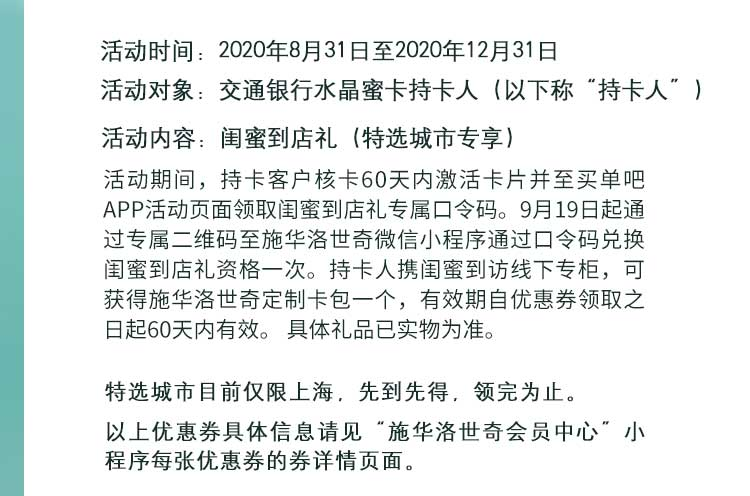
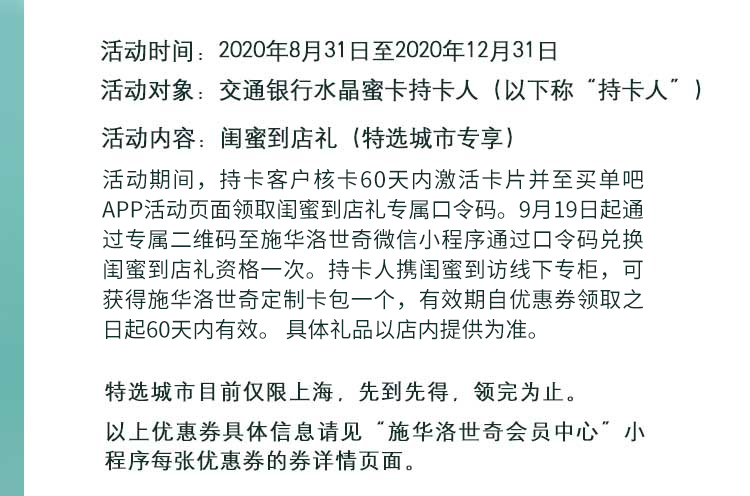
水晶蜜卡专享 活动提交

Changed region(s): [[0.1227, 0.3327, 0.8587, 0.6956]]

diff --git a/水晶蜜卡-到店礼&TC-WAP/check/xize.html b/水晶蜜卡-到店礼&TC-WAP/check/xize.html
@@ -49,7 +49,7 @@
                 <h3>活动内容</h3>
                 <p>闺蜜到店礼（特选城市专享）</p>
                 <p>活动期间，持卡客户核卡60天内激活卡片并至买单吧APP活动页面领取闺蜜到店礼专属口令码。9月19日起通过专属二维码至施华洛世奇微信小程序通过口令码兑换闺蜜到店礼资格一次。持卡人携闺蜜到访线下专柜，可获得施华洛世奇定制卡包一个，有效期自优惠券领取之日起60天内有效。
-                    具体礼品已实物为准。</p>
+                    具体礼品以店内提供为准。</p>
                 <p>* 特选城市目前仅限上海，先到先得，领完为止。</p>
                 <p>* 以上优惠券具体信息请见“施华洛世奇会员中心”小程序每张优惠券的券详情页面。</p>
                 <div class="split-line"></div>

diff --git a/水晶蜜卡-到店礼&TC-WAP/upload/xize.html b/水晶蜜卡-到店礼&TC-WAP/upload/xize.html
@@ -51,7 +51,7 @@
 				<h3>活动内容</h3>
 				<p>闺蜜到店礼（特选城市专享）</p>
 				<p>活动期间，持卡客户核卡60天内激活卡片并至买单吧APP活动页面领取闺蜜到店礼专属口令码。9月19日起通过专属二维码至施华洛世奇微信小程序通过口令码兑换闺蜜到店礼资格一次。持卡人携闺蜜到访线下专柜，可获得施华洛世奇定制卡包一个，有效期自优惠券领取之日起60天内有效。
-					具体礼品已实物为准。</p>
+					具体礼品以店内提供为准。</p>
 				<p>* 特选城市目前仅限上海，先到先得，领完为止。</p>
 				<p>* 以上优惠券具体信息请见“施华洛世奇会员中心”小程序每张优惠券的券详情页面。</p>
 				<div class="split-line"></div>

diff --git a/水晶蜜卡-到店礼&TC-WAP/upload/index.html b/水晶蜜卡-到店礼&TC-WAP/upload/index.html
@@ -66,6 +66,8 @@
 
 
       <div class="relative-div">
+        <a title="立即领取" href="https://creditcardapp.bankcomm.com/acsweb/actDetail/detail?actId=20200824203633"
+          class="lingqu"></a>
         <a href="xize.html" title="细则" class="xize"></a>
         <img src="images/index/index_04.jpg">
       </div>

diff --git a/水晶蜜卡-折扣券&TC-WAP/check/index.html b/水晶蜜卡-折扣券&TC-WAP/check/index.html
@@ -59,6 +59,8 @@
 
 
       <div class="relative-div">
+        <a title="立即领取" href="https://creditcardapp.bankcomm.com/acsweb/actDetail/detail?actId=20200824203633"
+          class="lingqu"></a>
         <a href="xize.html" title="细则" class="xize"></a>
         <img src="images/index/index_04.jpg">
       </div>

diff --git a/水晶蜜卡-折扣券&TC-WAP/upload/index.html b/水晶蜜卡-折扣券&TC-WAP/upload/index.html
@@ -66,6 +66,8 @@
 
 
       <div class="relative-div">
+        <a title="立即领取" href="https://creditcardapp.bankcomm.com/acsweb/actDetail/detail?actId=20200824203633"
+          class="lingqu"></a>
         <a href="xize.html" title="细则" class="xize"></a>
         <img src="images/index/index_04.jpg">
       </div>

diff --git a/水晶蜜卡-满减券&TC-WAP/check/index.html b/水晶蜜卡-满减券&TC-WAP/check/index.html
@@ -59,6 +59,8 @@
 
 
       <div class="relative-div">
+        <a title="立即领取" href="https://creditcardapp.bankcomm.com/acsweb/actDetail/detail?actId=20200824203633"
+          class="lingqu"></a>
         <a href="xize.html" title="细则" class="xize"></a>
         <img src="images/index/index_04.jpg">
       </div>

diff --git a/水晶蜜卡-满减券&TC-WAP/upload/index.html b/水晶蜜卡-满减券&TC-WAP/upload/index.html
@@ -66,6 +66,8 @@
 
 
       <div class="relative-div">
+        <a title="立即领取" href="https://creditcardapp.bankcomm.com/acsweb/actDetail/detail?actId=20200824203633"
+          class="lingqu"></a>
         <a href="xize.html" title="细则" class="xize"></a>
         <img src="images/index/index_04.jpg">
       </div>

diff --git a/水晶蜜卡-满赠礼&TC-WAP/check/index.html b/水晶蜜卡-满赠礼&TC-WAP/check/index.html
@@ -59,6 +59,8 @@
 
 
       <div class="relative-div">
+        <a title="立即领取" href="https://creditcardapp.bankcomm.com/acsweb/actDetail/detail?actId=20200824203633"
+          class="lingqu"></a>
         <a href="xize.html" title="细则" class="xize"></a>
         <img src="images/index/index_04.jpg">
       </div>

diff --git a/水晶蜜卡-满赠礼&TC-WAP/upload/index.html b/水晶蜜卡-满赠礼&TC-WAP/upload/index.html
@@ -66,6 +66,8 @@
 
 
       <div class="relative-div">
+        <a title="立即领取" href="https://creditcardapp.bankcomm.com/acsweb/actDetail/detail?actId=20200824203633"
+          class="lingqu"></a>
         <a href="xize.html" title="细则" class="xize"></a>
         <img src="images/index/index_04.jpg">
       </div>

diff --git a/水晶蜜卡-到店礼&TC-WAP/check/index.html b/水晶蜜卡-到店礼&TC-WAP/check/index.html
@@ -59,6 +59,7 @@
 
 
       <div class="relative-div">
+        <a title="立即领取" href="https://creditcardapp.bankcomm.com/acsweb/actDetail/detail?actId=20200824203633" class="lingqu"></a>
         <a href="xize.html" title="细则" class="xize"></a>
         <img src="images/index/index_04.jpg">
       </div>

diff --git a/水晶蜜卡-到店礼&TC-WAP/check/css/index.css b/水晶蜜卡-到店礼&TC-WAP/check/css/index.css
@@ -26,5 +26,13 @@ img {
     width: 1.1rem;
     height: .35rem;
     left: 3.2rem;
-    top: .28rem;
+    top: .7rem;
+}
+
+.relative-div .lingqu {
+    position: absolute;
+    width: 2rem;
+    height: .51rem;
+    left: 2.75rem;
+    top: 0;
 }

diff --git a/水晶蜜卡-到店礼&TC-WAP/upload/css/index.css b/水晶蜜卡-到店礼&TC-WAP/upload/css/index.css
@@ -26,5 +26,13 @@ img {
     width: 1.1rem;
     height: .35rem;
     left: 3.2rem;
-    top: .28rem;
+    top: .7rem;
+}
+
+.relative-div .lingqu {
+    position: absolute;
+    width: 2rem;
+    height: .51rem;
+    left: 2.75rem;
+    top: 0;
 }
